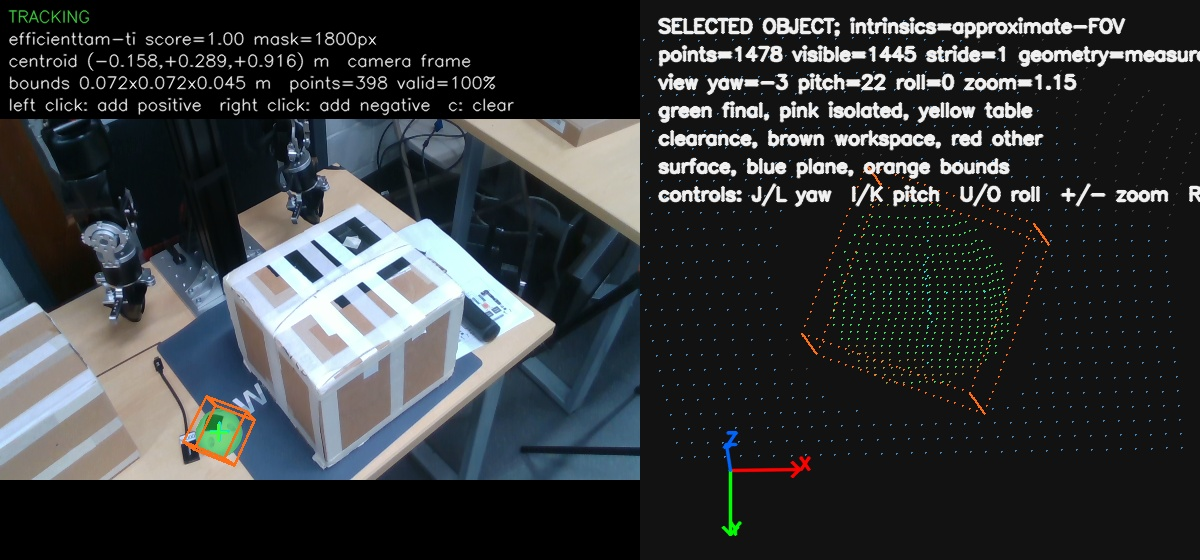
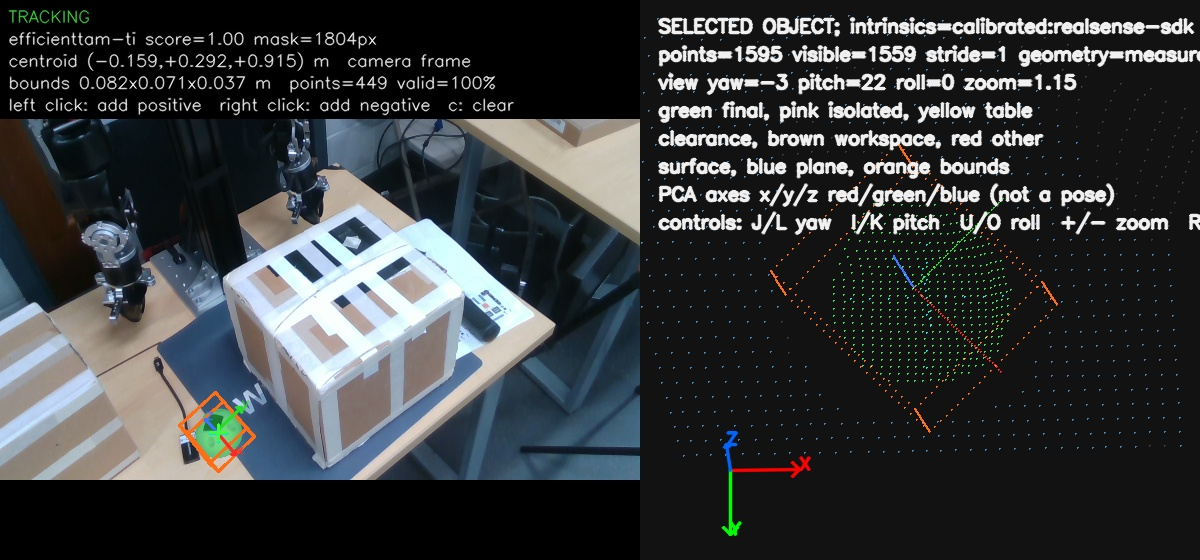
Show PCA orientation axes of the selected object
The color panel projects the box's principal axes from its centre (x red =
longest visible extent, y green, z blue = thinnest) and the cloud panel
draws them in 3D. NDJSON records carry them as bounds.principal_axes.
They are labelled as PCA axes, not a pose.

On replay they follow the faces of a flat box (0.30 x 0.21 x 0.06 m) but
lie diagonal to a near-cubic box (0.325 x 0.326 x 0.248 m), where two
extents are equal. The M2 doc records this limit for grasping boxes.

  pytest -q tests/test_select_object_view.py   # 2 passed
  pytest -q                                    # 173 passed, 1 inherited failure, 2 opt-in skips

diff --git a/src/vision_pipeline/apps/select_object.py b/src/vision_pipeline/apps/select_object.py
@@ -54,7 +54,7 @@ from vision_pipeline.contracts import (
 )
 from vision_pipeline.geometry.camera import PinholeIntrinsics
 from vision_pipeline.geometry.pointcloud import GeometryKind, PointCloud
-from vision_pipeline.geometry.spatial import RigidTransform3D
+from vision_pipeline.geometry.spatial import OrientedBox3D, RigidTransform3D
 from vision_pipeline.geometry.visualization import PointCloudRenderer, PointCloudViewConfig
 from vision_pipeline.perception.objects.selected_geometry import SelectedGeometryEstimator
 from vision_pipeline.perception.objects.selection import (
@@ -90,6 +90,9 @@ _PLANE_INLIER_RGB = (70, 130, 180)
 _PLANE_OUTLIER_RGB = (60, 60, 60)
 _BOX_EDGE_RGB = (255, 110, 20)
 _MARKER_RGB = (0, 230, 230)
+# Principal axes, longest to thinnest: x red, y green, z blue.
+_AXIS_RGB = ((255, 40, 40), (40, 220, 40), (60, 120, 255))
+_AXIS_SAMPLES = 40
 _SCRATCH_FRAME = FrameId("select-object-view")
 _SCRATCH_CLOCK = ClockDomain("select-object/view", ClockKind.HOST_MONOTONIC)
 _BOX_EDGES = (
@@ -141,6 +144,8 @@ def geometry_record(output: GeometryOutput) -> dict[str, Any]:
                     "position_metres": list(bounds.pose.position_metres),
                     "orientation_xyzw": list(bounds.pose.orientation_xyzw),
                     "size_metres": list(bounds.size_metres),
+                    # Unit columns of the box rotation, longest to thinnest visible extent.
+                    "principal_axes": _unit_axes(bounds),
                     "kind": "pca-observed-surface-bounds; not an object pose",
                 },
                 "point_count": estimate.observation.point_count,
@@ -184,6 +189,36 @@ def _box_corners(output: GeometryOutput) -> np.ndarray | None:
             for sz in (-half[2], half[2])
         ]
     )
+
+
+def box_axes(bounds: OrientedBox3D) -> tuple[np.ndarray, np.ndarray]:
+    """Box centre and the endpoints of its three principal axes, in the box's frame.
+
+    Axis ``k`` of the PCA box is column ``k`` of its rotation: ``x`` is the longest
+    visible extent and ``z`` the thinnest, which for a flat face is its normal. Arrows
+    share one length (60 % of the largest extent, clamped to 5-25 cm) so that a
+    near-degenerate axis stays visible. These axes describe the observed surface, not
+    an object pose; for symmetric objects they can flip between frames.
+    """
+
+    length = min(max(0.6 * max(bounds.size_metres), 0.05), 0.25)
+    transform = RigidTransform3D(
+        source_frame=_SCRATCH_FRAME,
+        target_frame=_SCRATCH_FRAME,
+        translation_metres=bounds.pose.position_metres,
+        rotation_xyzw=bounds.pose.orientation_xyzw,
+    )
+    endpoints = np.array(
+        [transform.apply_point(tuple(length * np.eye(3)[axis])) for axis in range(3)]
+    )
+    return np.array(bounds.pose.position_metres, dtype=np.float64), endpoints
+
+
+def _unit_axes(bounds: OrientedBox3D) -> list[list[float]]:
+    origin, endpoints = box_axes(bounds)
+    directions = endpoints - origin
+    directions /= np.linalg.norm(directions, axis=1, keepdims=True)
+    return [[float(value) for value in axis] for axis in directions]
 
 
 class SelectionView:
@@ -304,6 +339,18 @@ class SelectionView:
                 points = np.rint(projected).astype(np.int32)
                 for a, b in _BOX_EDGES:
                     cv2.line(image, tuple(points[a]), tuple(points[b]), (20, 110, 255), 2)
+            origin, endpoints = box_axes(geometry.geometry.observation.bounds)
+            axis_pixels = _project(np.vstack((origin, endpoints)), frame.color_intrinsics)
+            if axis_pixels is not None:
+                start = tuple(np.rint(axis_pixels[0]).astype(np.int32))
+                for axis, name in enumerate("xyz"):
+                    end = tuple(np.rint(axis_pixels[axis + 1]).astype(np.int32))
+                    red, green, blue = _AXIS_RGB[axis]
+                    cv2.arrowedLine(image, start, end, (blue, green, red), 2, cv2.LINE_AA, 0, 0.15)
+                    cv2.putText(
+                        image, name, end, cv2.FONT_HERSHEY_SIMPLEX, 0.5, (blue, green, red), 1,
+                        cv2.LINE_AA,
+                    )  # fmt: skip
             centre = _project(np.array([geometry.geometry.centroid_metres]), frame.color_intrinsics)
             if centre is not None:
                 cv2.drawMarker(
@@ -397,6 +444,11 @@ class SelectionView:
                 np.tile(np.array(_BOX_EDGE_RGB, np.uint8), (len(edges), 1)),
                 np.tile(np.array(_MARKER_RGB, np.uint8), (len(marker), 1)),
             ]
+            origin, endpoints = box_axes(bounds)
+            steps = np.linspace(0.0, 1.0, _AXIS_SAMPLES)[:, None]
+            for axis in range(3):
+                xyz_parts.append((origin + steps * (endpoints[axis] - origin)).astype(np.float32))
+                color_parts.append(np.tile(np.array(_AXIS_RGB[axis], np.uint8), (_AXIS_SAMPLES, 1)))
         if not xyz_parts:
             canvas = np.full((self._cloud_size, self._cloud_size, 3), 18, np.uint8)
             cv2.putText(
@@ -438,6 +490,7 @@ class SelectionView:
                 "green final, pink isolated, yellow table",
                 "clearance, brown workspace, red other",
                 "surface, blue plane, orange bounds",
+                "PCA axes x/y/z red/green/blue (not a pose)",
             ),
         )
 

diff --git a/tests/test_select_object_view.py b/tests/test_select_object_view.py
@@ -1,0 +1,38 @@
+from __future__ import annotations
+
+import math
+
+import numpy as np
+import pytest
+
+from vision_pipeline.apps.select_object import box_axes
+from vision_pipeline.contracts import FrameId
+from vision_pipeline.geometry.spatial import OrientedBox3D, Pose3D
+
+
+def test_box_axes_follow_the_box_rotation_from_its_centre() -> None:
+    # 90 degrees about camera z: box x points along camera +y, box y along camera -x.
+    half = math.sqrt(0.5)
+    bounds = OrientedBox3D(
+        pose=Pose3D(FrameId("camera"), (0.1, -0.2, 0.9), (0.0, 0.0, half, half)),
+        size_metres=(0.30, 0.10, 0.02),
+    )
+
+    origin, endpoints = box_axes(bounds)
+
+    length = 0.6 * 0.30
+    assert origin == pytest.approx((0.1, -0.2, 0.9))
+    assert endpoints[0] - origin == pytest.approx((0.0, length, 0.0), abs=1e-9)
+    assert endpoints[1] - origin == pytest.approx((-length, 0.0, 0.0), abs=1e-9)
+    assert endpoints[2] - origin == pytest.approx((0.0, 0.0, length), abs=1e-9)
+    directions = (endpoints - origin) / length
+    assert directions @ directions.T == pytest.approx(np.eye(3), abs=1e-9)
+
+
+def test_box_axes_length_is_clamped_for_tiny_and_huge_boxes() -> None:
+    identity = (0.0, 0.0, 0.0, 1.0)
+    tiny = OrientedBox3D(Pose3D(FrameId("camera"), (0, 0, 1), identity), (0.01, 0.01, 0.01))
+    huge = OrientedBox3D(Pose3D(FrameId("camera"), (0, 0, 1), identity), (2.0, 1.0, 1.0))
+
+    assert np.linalg.norm(box_axes(tiny)[1][0] - (0, 0, 1)) == pytest.approx(0.05)
+    assert np.linalg.norm(box_axes(huge)[1][0] - (0, 0, 1)) == pytest.approx(0.25)

diff --git a/docs/selection/M2-selected-geometry.md b/docs/selection/M2-selected-geometry.md
@@ -108,7 +108,23 @@ share (`M0.md` addendum).
   rendered at most 15 Hz, from references published by the workers, so rendering never
   blocks capture, masks, or geometry.
 
-Snapshots from replay: `m2-visualization/box-tracking.jpg` and `ball-tracking.jpg`.
+Both panels also draw the box's principal axes from its centre: x red (longest visible
+extent), y green, z blue (thinnest; the normal of a flat face). They are labelled as PCA
+axes, not a pose. NDJSON records carry them as `bounds.principal_axes` (unit column
+vectors in the camera frame).
+
+The snapshots show where PCA axes can and cannot be trusted:
+
+- **Flat box** (`side-box-tracking.jpg`, bounds 0.30 × 0.21 × 0.06 m): z is its top-face
+  normal and x its long edge, so the axes line up with the faces.
+- **Near-cubic box** (`box-tracking.jpg`, 0.325 × 0.326 × 0.248 m): x and y are almost
+  equal, so the PCA axes are diagonal to the faces and can rotate between frames.
+
+For grasping a box between two arms, face-aligned axes need a different estimate, e.g.
+the table normal as "up" plus a minimum-area rectangle of the footprint for yaw.
+
+Snapshots from replay: `m2-visualization/box-tracking.jpg`, `side-box-tracking.jpg`, and
+`ball-tracking.jpg`.
 
 `--ndjson PATH` appends one `selected-object-observation-v1` record per geometry output.
 Each record carries the frameset, color and depth sample IDs, both device capture
